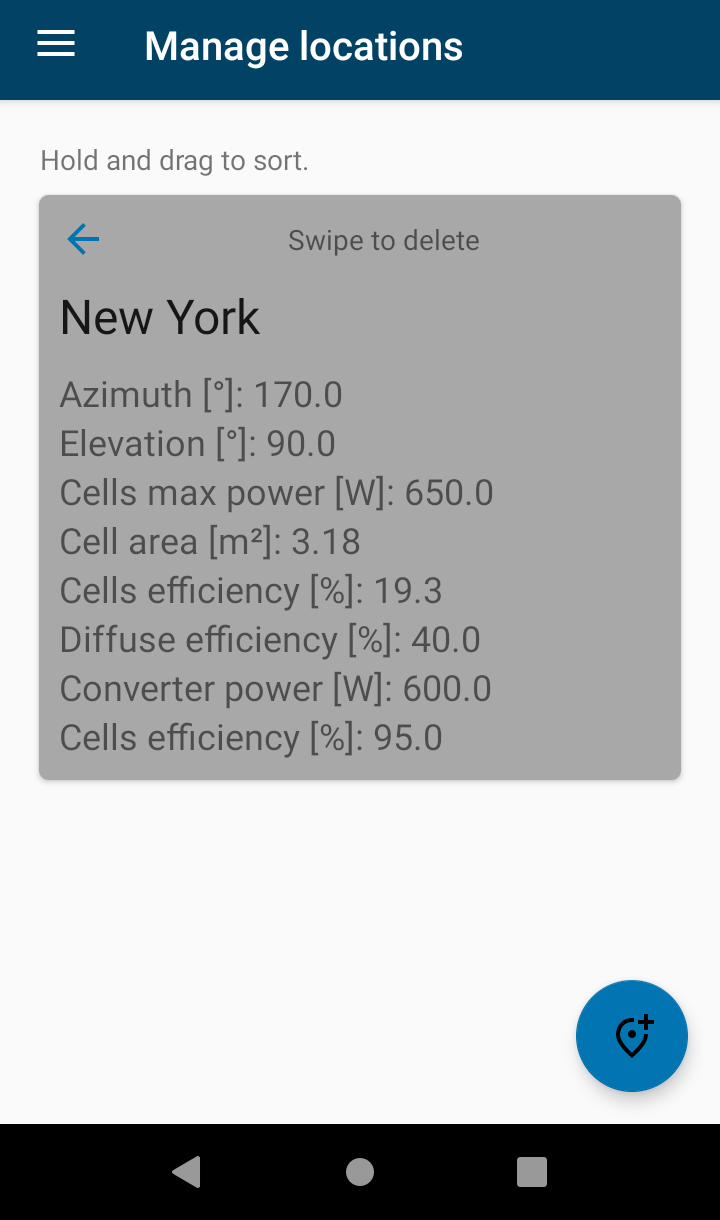
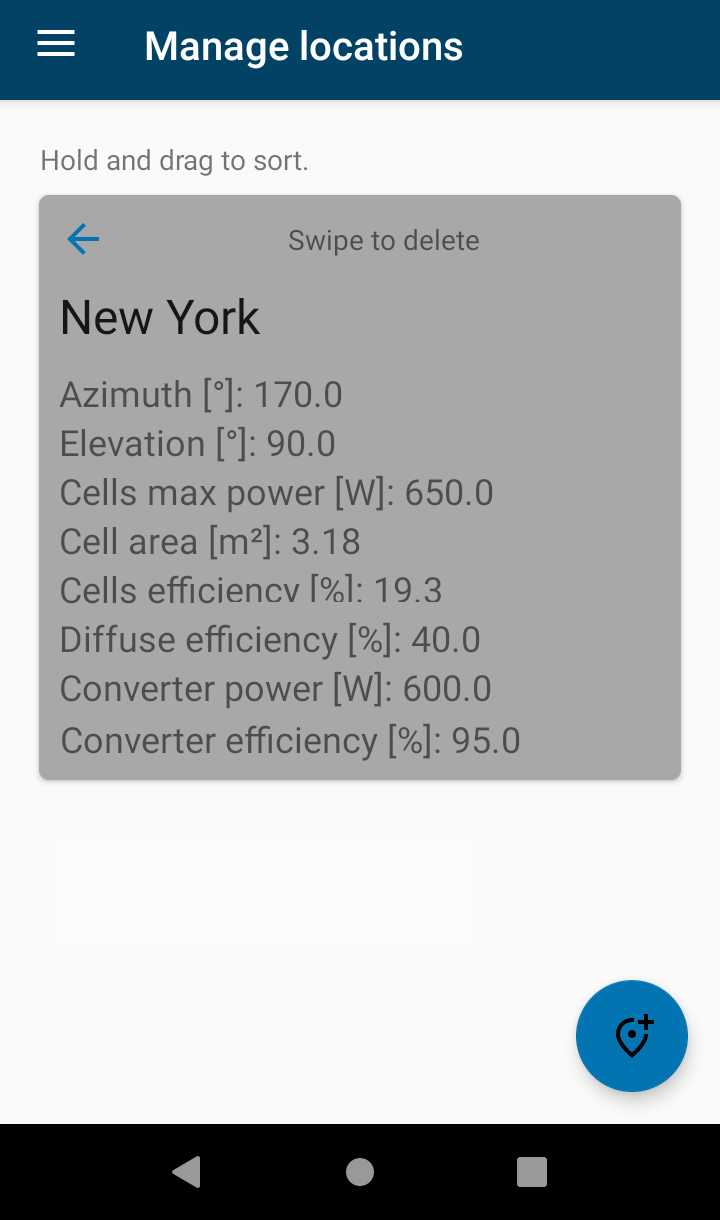
add estimate for diffuse efficiency update strings update fastlane image

Changed region(s): [[0.0917, 0.5918, 0.7333, 0.623]]

diff --git a/app/src/main/java/org/woheller69/weather/activities/ManageLocationsActivity.java b/app/src/main/java/org/woheller69/weather/activities/ManageLocationsActivity.java
@@ -9,6 +9,8 @@ import androidx.recyclerview.widget.LinearLayoutManager;
 import androidx.recyclerview.widget.RecyclerView;
 import androidx.recyclerview.widget.ItemTouchHelper;
 
+import android.text.Editable;
+import android.text.TextWatcher;
 import android.view.LayoutInflater;
 import android.view.View;
 import android.view.WindowManager;
@@ -101,6 +103,18 @@ public class ManageLocationsActivity extends NavigationActivity {
                         editDiffuseEfficiency.setText(Float.toString(adapter.getCitytoWatch(position).getDiffuseEfficiency()));
                         editConverterPowerLimit.setText(Float.toString(adapter.getCitytoWatch(position).getConverterPowerLimit()));
                         editConverterEfficiency.setText(Float.toString(adapter.getCitytoWatch(position).getConverterEfficiency()));
+                        editElevation.addTextChangedListener(new TextWatcher() {
+                            @Override
+                            public void beforeTextChanged(CharSequence charSequence, int i, int i1, int i2) { }
+                            @Override
+                            public void onTextChanged(CharSequence charSequence, int i, int i1, int i2) { }
+
+                            @Override
+                            public void afterTextChanged(Editable editable) {
+                                float elevation = Float.parseFloat(editElevation.getText().toString());
+                                editDiffuseEfficiency.setText(Float.toString(100-50 * elevation/90));
+                            }
+                        });
 
                         alert.setPositiveButton(getString(R.string.dialog_edit_change_button), (dialog, whichButton) -> {
                             adapter.updateCity(position, String.valueOf(editCity.getText()),

diff --git a/app/src/main/java/org/woheller69/weather/ui/RecycleList/RecyclerOverviewListAdapter.java b/app/src/main/java/org/woheller69/weather/ui/RecycleList/RecyclerOverviewListAdapter.java
@@ -70,7 +70,7 @@ public class RecyclerOverviewListAdapter extends RecyclerView.Adapter<ItemViewHo
         holder.cellsArea.setText(context.getString(R.string.edit_location_hint_cells_area) +": "+ cities.get(position).getCellsArea());
         holder.diffuseEfficiency.setText(context.getString(R.string.edit_location_hint_diffuse_efficiency) +": "+ cities.get(position).getDiffuseEfficiency());
         holder.converterPowerLimit.setText(context.getString(R.string.edit_location_hint_converter_power_limit) +": "+ cities.get(position).getConverterPowerLimit());
-        holder.converterEfficiency.setText(context.getString(R.string.edit_location_hint_cells_efficiency) +": "+ cities.get(position).getConverterEfficiency());
+        holder.converterEfficiency.setText(context.getString(R.string.edit_location_hint_converter_efficiency) +": "+ cities.get(position).getConverterEfficiency());
 
     }
 
